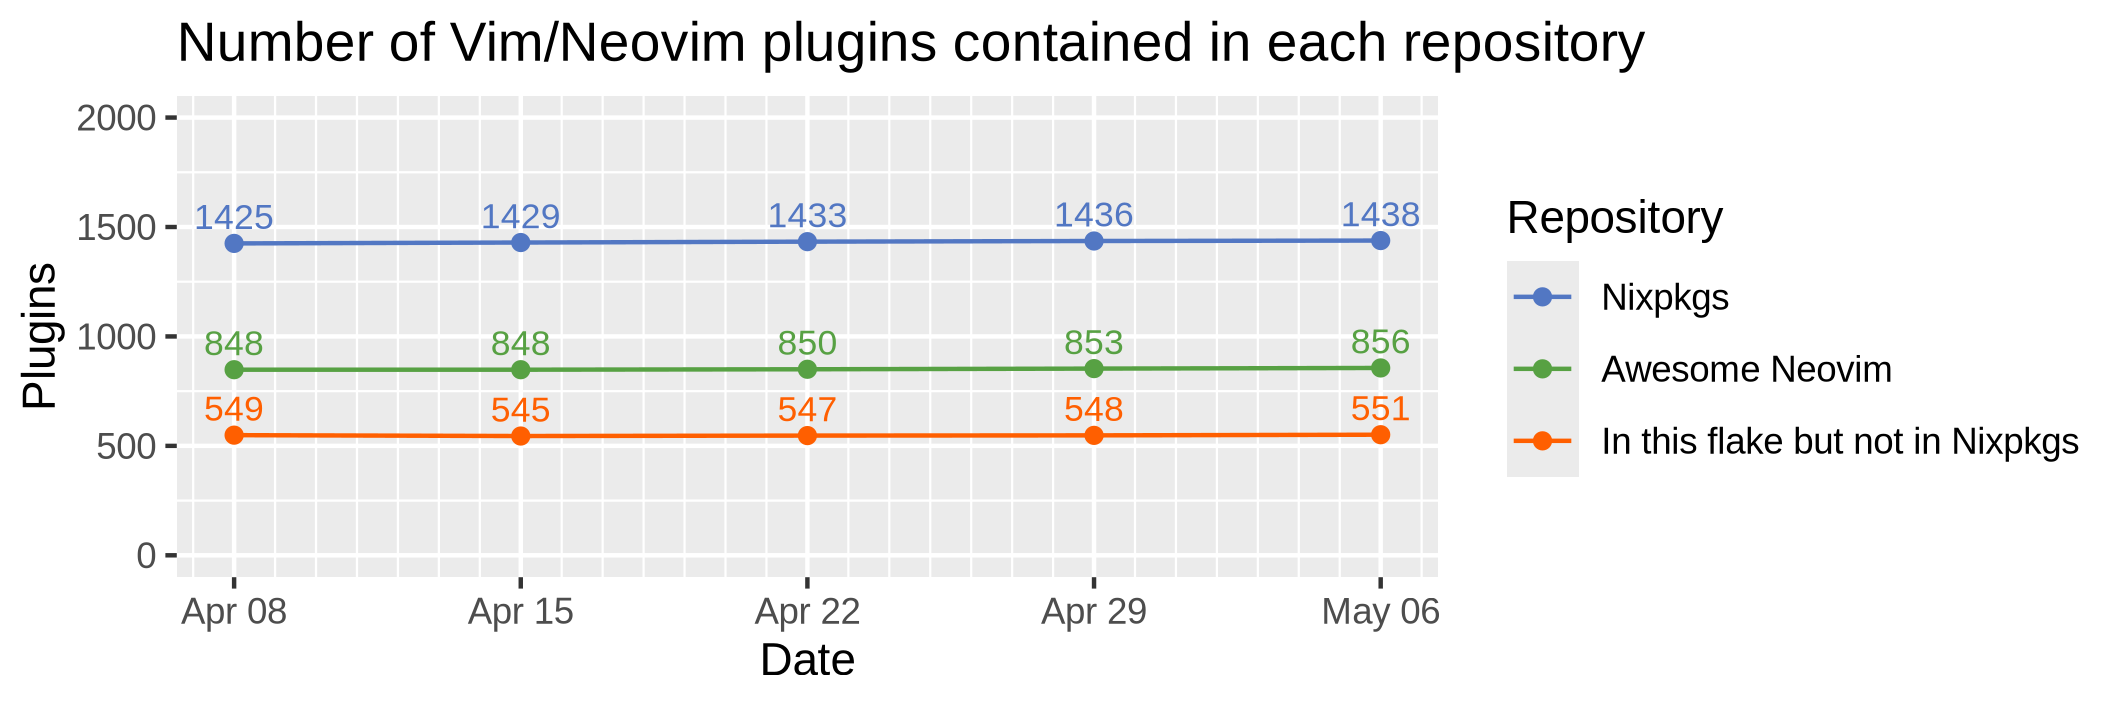
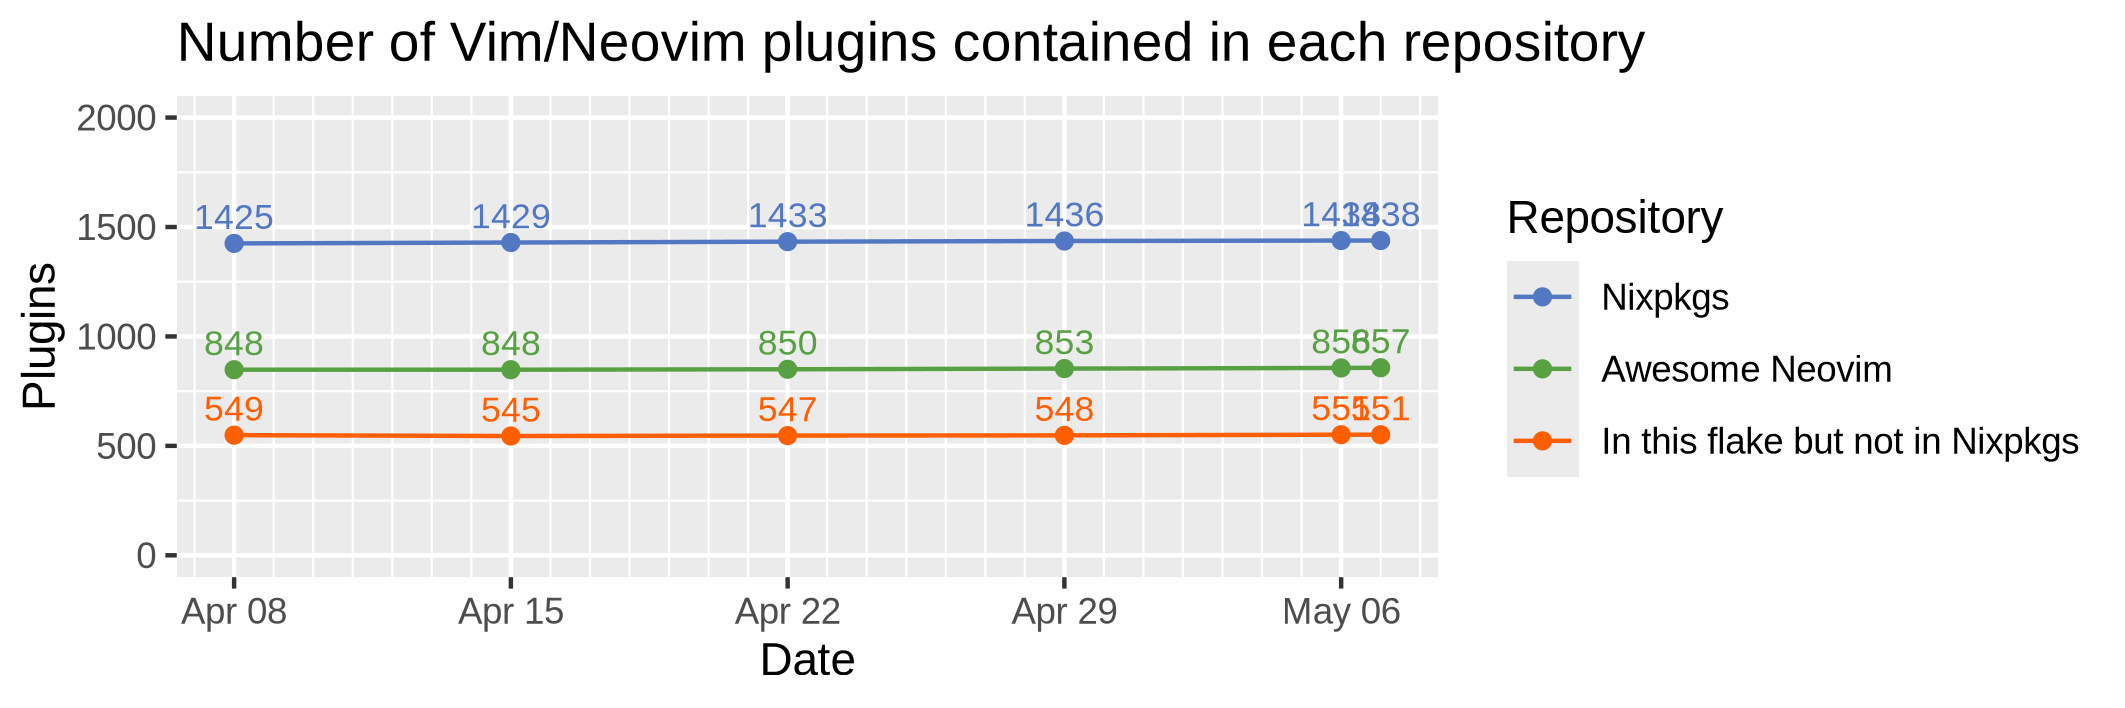
auto: update vim plugins

diff --git a/README.md b/README.md
@@ -8,7 +8,7 @@ Nix flake of Awesome Neovim plugins.
 
 [b1]: https://img.shields.io/github/actions/workflow/status/m15a/flake-awesome-neovim-plugins/check.yml?style=flat-square&logo=github&label=CI
 [b2]: https://github.com/m15a/flake-awesome-neovim-plugins/actions/workflows/check.yml
-[b3]: https://img.shields.io/badge/Awesome_Neovim_plugins-856-57A143?style=flat-square
+[b3]: https://img.shields.io/badge/Awesome_Neovim_plugins-857-57A143?style=flat-square
 [b4]: https://img.shields.io/endpoint?url=https://flakehub.com/f/m15a/flake-awesome-neovim-plugins/badge&style=flat-square
 [b5]: https://flakehub.com/flake/m15a/flake-awesome-neovim-plugins
 
